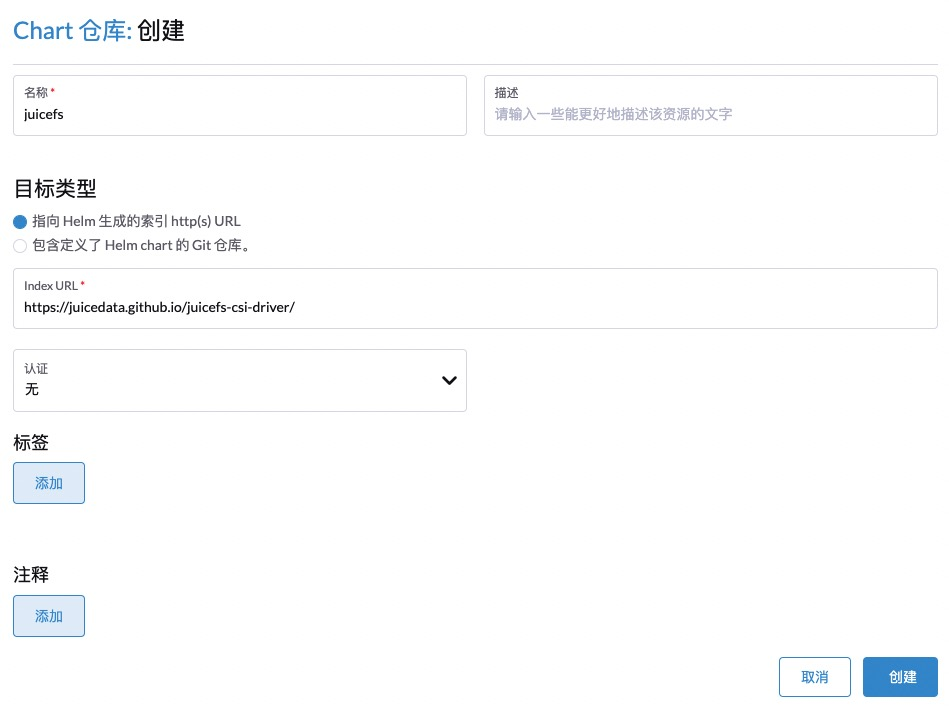
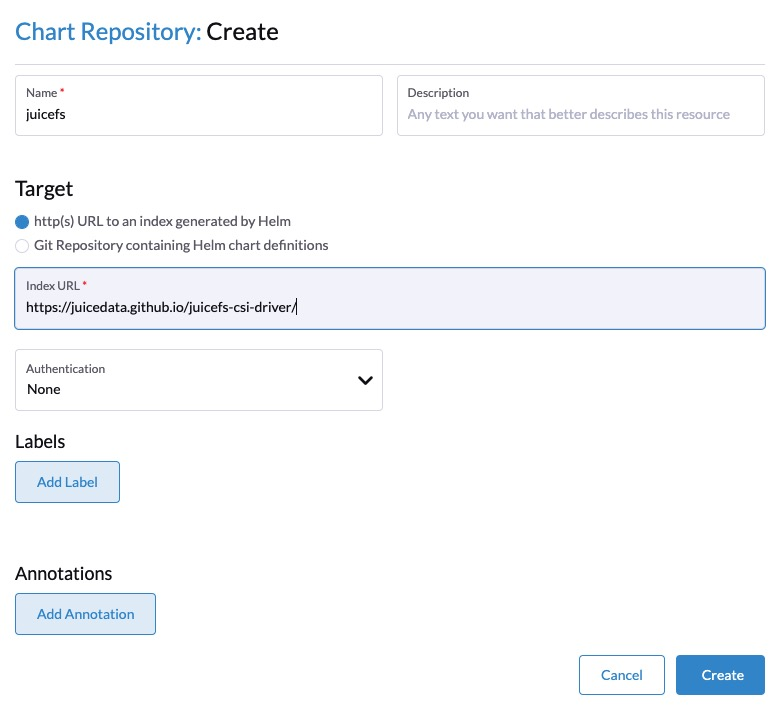
Docs: add en/juicefs_on_rancher.md (#880)
* Docs: add zh_cn/juicefs_on_rancher.md

* update

* update

* fix

* Docs: add en/juicefs_on_rancher.md

* update TOC

diff --git a/docs/en/juicefs_on_rancher.md b/docs/en/juicefs_on_rancher.md
@@ -1,0 +1,102 @@
+# One-click deployment of JuiceFS on Rancher
+
+[Rancher](https://rancher.com/) is an enterprise-level Kubernetes cluster management system, which can be used to quickly complete the deployment of Kubernetes clusters on various cloud computing platforms.
+
+Rancher provides a browser-based management interface, even users who are not experienced in Kubernetes can start to manage and use easily. It is preset with Helm-based application market by default, and various Kubernetes applications can be installed very easy under the graphical interface.
+
+This article will introduce how to deploy Rancher on a Linux system and create a Kubernetes cluster with it, and then deploy JuiceFS CSI Driver with one click through the application market, thereby providing data persistence for various applications on the cluster.
+
+## Install Rancher
+
+Rancher can be installed on almost all modern Linux distributions. It can be installed directly on the operating system, or on Docker, Kubernetes, K3s or RKE. The installation is "Product-Ready" no matter which environment it is installed in.
+
+Here we choose to install Rancher on Docker, with the following requirements:
+
+- **Operating System**: Linux system with x86-64 architecture
+- **Memory**: 4GB or more
+- **Docker**: 19.03+
+
+Run the following command to install Rancher:
+
+```shell
+$ sudo docker run --privileged -d --restart=unless-stopped -p 80:80 -p 443:443 rancher/rancher
+```
+
+After the container is created, Rancher's management interface can be opened by accessing the IP address of the host.
+
+![](../images/rancher-welcome.jpeg)
+
+## Create a Kubernetes cluster
+
+After Rancher is installed, you can see that it has deployed a K3s cluster in the current container, and Rancher related resources are running in this internal K3s cluster, but we don't need to pay attention to this cluster now.
+
+Next, start to create a Kubernetes cluster. In the Cluster section of the welcome page, click `Create` to create a cluster. Rancher supports the creation of Kubernetes clusters on major cloud computing platforms. Here we need to create a cluster directly on Rancher's host, so choose `Custom`. Then fill in the cluster name according to the wizard and select the Kubernetes version.
+
+![](../images/rancher-cluster-create.jpg)
+
+In the `Cluster Options` page, select the node role to be created, then copy the generated command and execute it on the target host.
+
+![](../images/rancher-cluster-options.jpg)
+
+After the cluster is created, it will be displayed in Rancher's cluster list.
+
+![](../images/rancher-clusters.jpg)
+
+## One-click installation of JuiceFS CSI Driver
+
+In the cluster list, click to enter the Kubernetes cluster, click on the left navigation menu to expand `Apps & Marketplace` -> `Chart Repositories`, click the `Create` button to add JuiceFS CSI repository, fill in:
+
+- **Name**: juicefs
+- **Index URL**: https://juicedata.github.io/juicefs-csi-driver/
+
+![](../images/rancher-new-repo.jpg)
+
+And then, you can see the new repository in the list.
+
+![](../images/rancher-repos.jpg)
+
+Then click to open the `Apps & Marketplace` -> `Charts` from the left menu, type `juicefs` in the search bar, and then click to open `juicefs-csi-driver`.
+
+![](../images/rancher-chart-search.jpg)
+
+Click the "Install" button on the application details page, the latest version will be installed by default, or you can click to switch to the historical version to install.
+
+![](../images/rancher-chart-info.jpg)
+
+The installation wizard has two steps:
+
+### Step 1: Set up the `Namespace`
+
+The JuiceFS CSI Driver defaults to `kube-system`, and there is no need to set this step.
+
+### Step 2: Adjust configuration parameters
+
+This page provides a YAML editor, you can adjust JuiceFS-related information according to your needs. Usually you only need to modify the `storageClasses` part, where the `backend` part is used to define the backend database and object storage of the file system. You can refer to [JuiceFS Quick Start Guide](https://github.com/juicedata/juicefs/blob/main/docs/zh_cn/quick_start_guide.md) to learn the detail. If you are using a pre-created file system, you only need to fill in the two items `metaurl` and `name`, for example:
+
+```yaml
+...
+storageClasses:
+  - backend:
+      accessKey: ''
+      bucket: ''
+      metaurl: 'redis://:mypasswd@efgh123.redis.rds.aliyuncs.com/1'
+      name: myjfs
+      secretKey: '' 
+      storage: ''
+    enabled: true
+    name: juicefs-sc
+    reclaimPolicy: Retain
+...
+```
+
+> **Tip**: If you have multiple JuiceFS file systems that need to be associated with different storageClasses in the Kubernetes cluster, you can add storageClass configuration items after the `storageClasses` array. Pay attention to modify the name of the storage class to avoid conflicts.
+
+Click "Install" and wait for the application installation to complete.
+
+![](../images/rancher-chart-installed.jpg)
+
+## Use JuiceFS to persist data
+
+When deploying an application, specify `juicefs-sc` in the storage configuration.
+
+![](../images/rancher-pvc.jpg)

diff --git a/docs/en/README.md b/docs/en/README.md
@@ -37,6 +37,7 @@ JuiceFS can simply and conveniently connect massive cloud storage directly to bi
   - [Use JuiceFS on Docker](juicefs_on_docker.md)
   - [Use JuiceFS on Kubernetes](how_to_use_on_kubernetes.md)
   - [Use JuiceFS on K3s](juicefs_on_k3s.md)
+  - [One-click deployment of JuiceFS on Rancher](juicefs_on_rancher.md)
   - [Use JuiceFS on Hadoop ecosystem](hadoop_java_sdk.md)
   - [JuiceFS enable S3 Gateway](s3_gateway.md)
   - [JuiceFS client compilation and upgrade](client_compile_and_upgrade.md)
